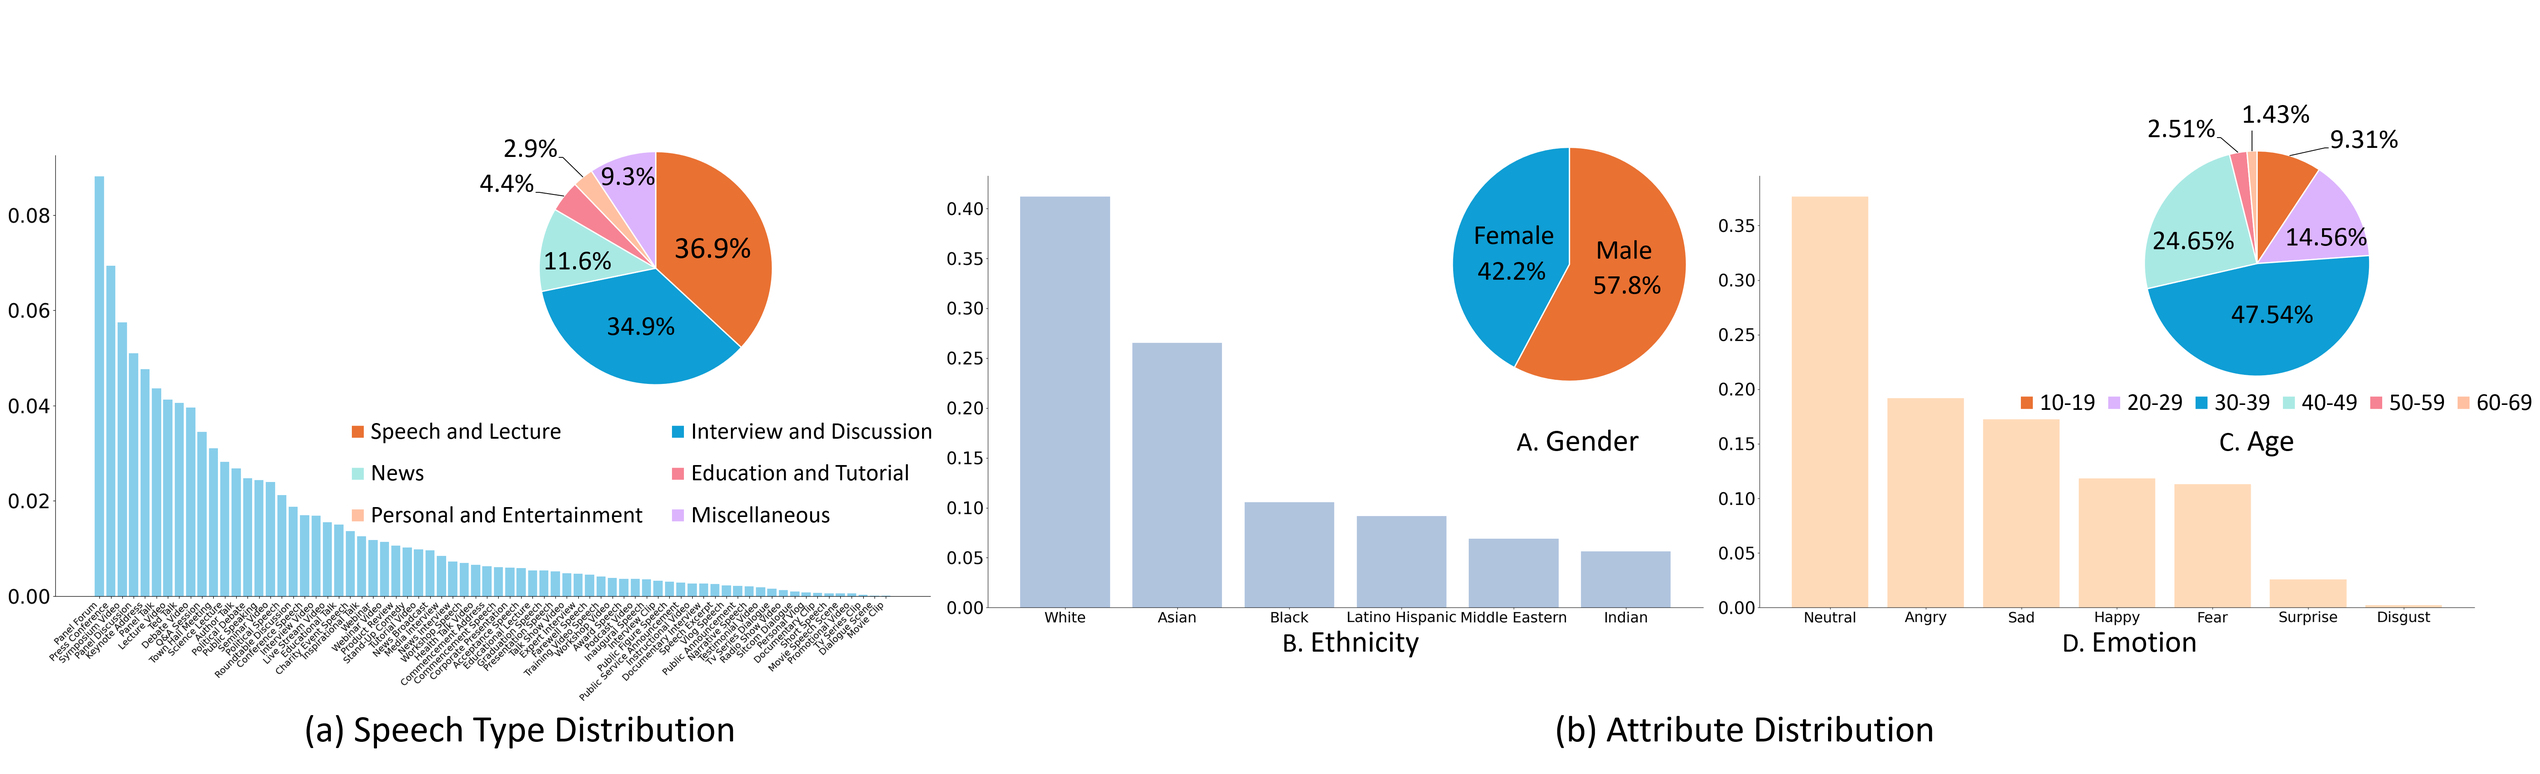
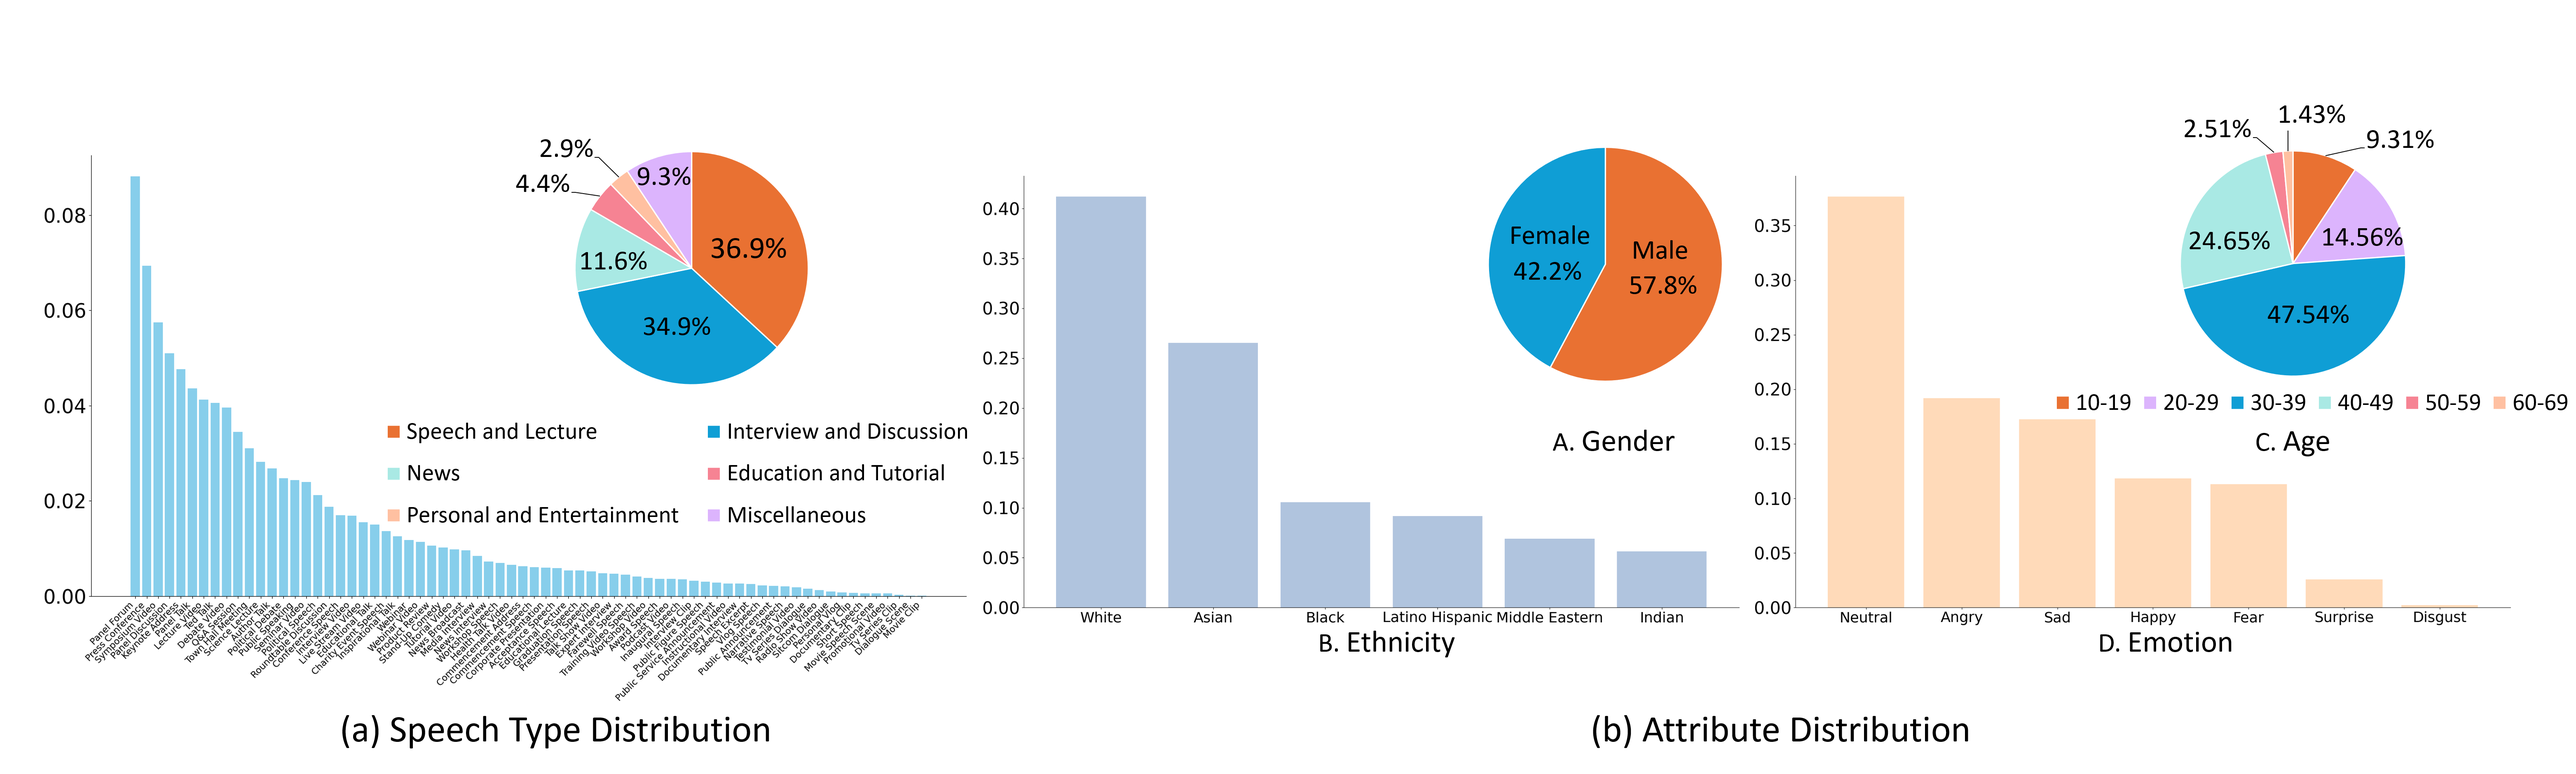
Update:codata_dataset.png.

diff --git a/index.html b/index.html
@@ -300,8 +300,8 @@ End image carousel -->
           <!-- StableAnimator is based on the commonly used SVD following previous works. A reference image is processed through the diffusion model via three pathways: (1) Transformed into a latent code by a frozen VAE Encoder. The latent code is duplicated to match video frames, then concatenated with main latents. (2) Encoded by the CLIP Image Encoder to obtain image embeddings, which are fed to each cross-attention block of a denoising U-Net and our Face Encoder, respectively, to modulate the synthesized appearance. (3) Input to Arcface to gain face embeddings, which are subsequently refined for further alignment via our Face Encoder. Refined face embeddings are then fed to the denoising U-Net. A PoseNet with a similar architecture as AnimateAnyone extracts the features of the pose sequence, which are then added to the noisy latents. We replace the original input video frames with random noise during inference, while the other inputs stay the same. We propose a novel HJB-equation-based face optimization to enhance ID consistency and eliminate reliance on third-party post-processing tools. It integrates the solution process of the HJB equation into the denoising, allowing optimal gradient direction toward high ID consistency. -->
         </p>
         <div class="columns is-centered">
-            <!-- <img src="static/images/Figure_3_17_ages_emotions_gender_races_fixed.png" alt="codata_dataset.png" style="max-width: 900px"/> -->
-            <img src="static/images/Figure_3_6_ages_emotions_gender_races.jpg" alt="codata_dataset.png" style="max-width: 900px"/>
+            <img src="static/images/Figure_3_17_ages_emotions_gender_races_fixed.png" alt="codata_dataset.png" style="max-width: 900px"/>
+            <!-- <img src="static/images/Figure_3_6_ages_emotions_gender_races.jpg" alt="codata_dataset.png" style="max-width: 900px"/> -->
         </div>
        
         <p>
